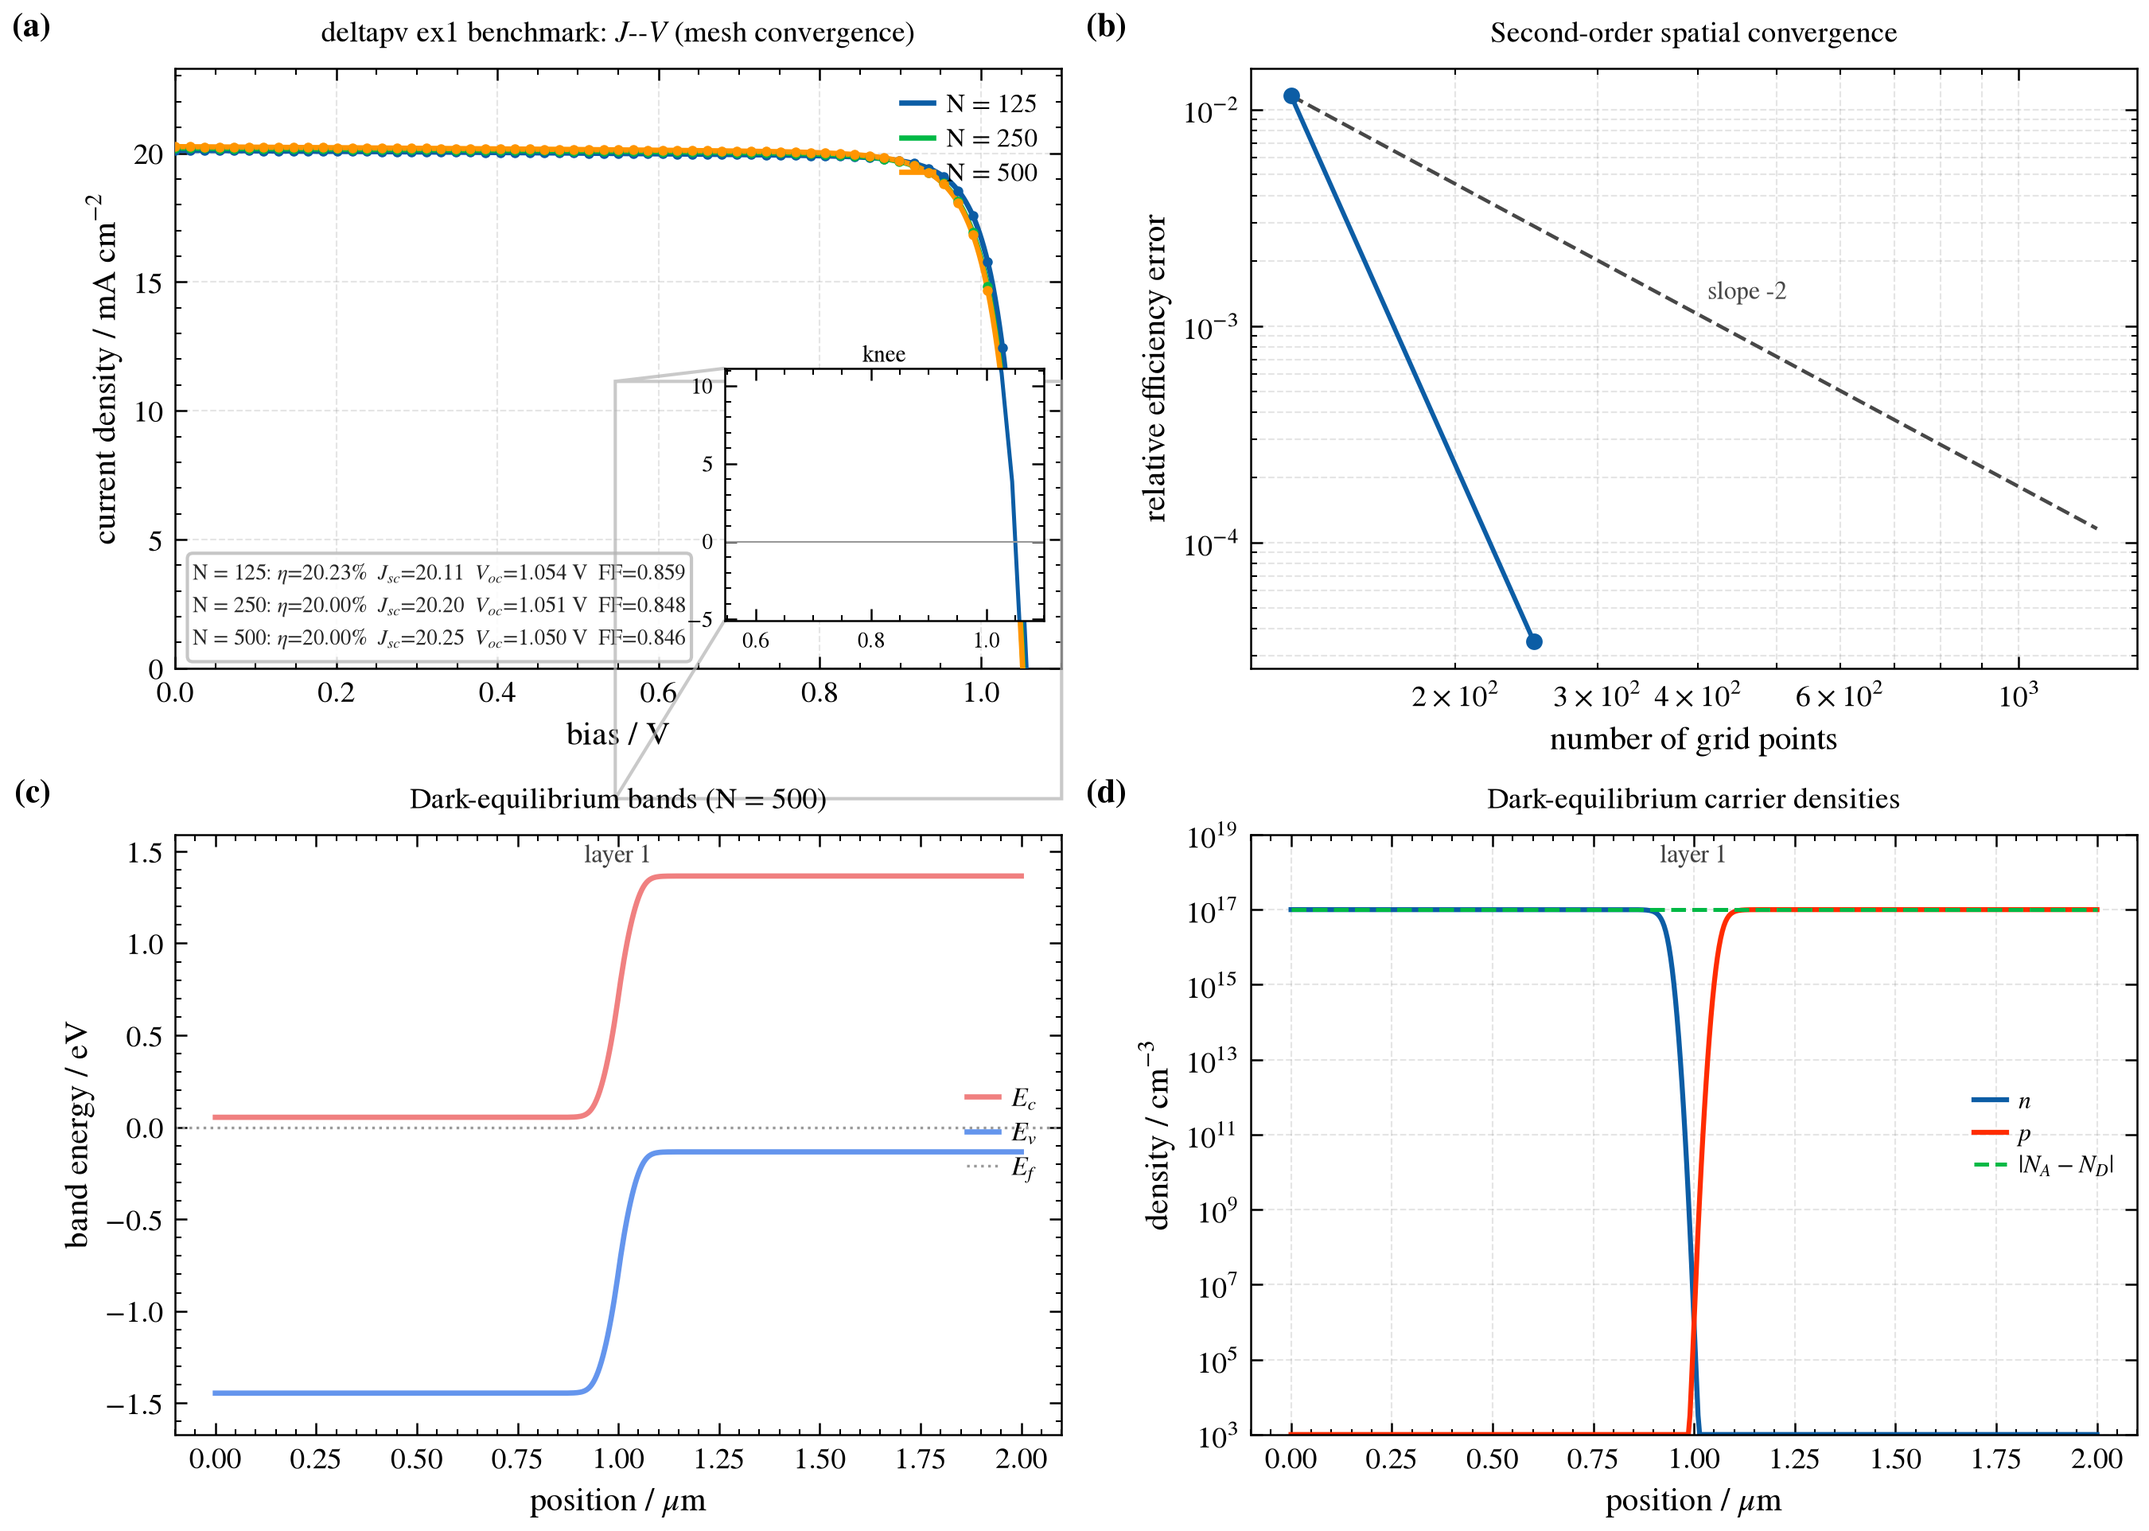
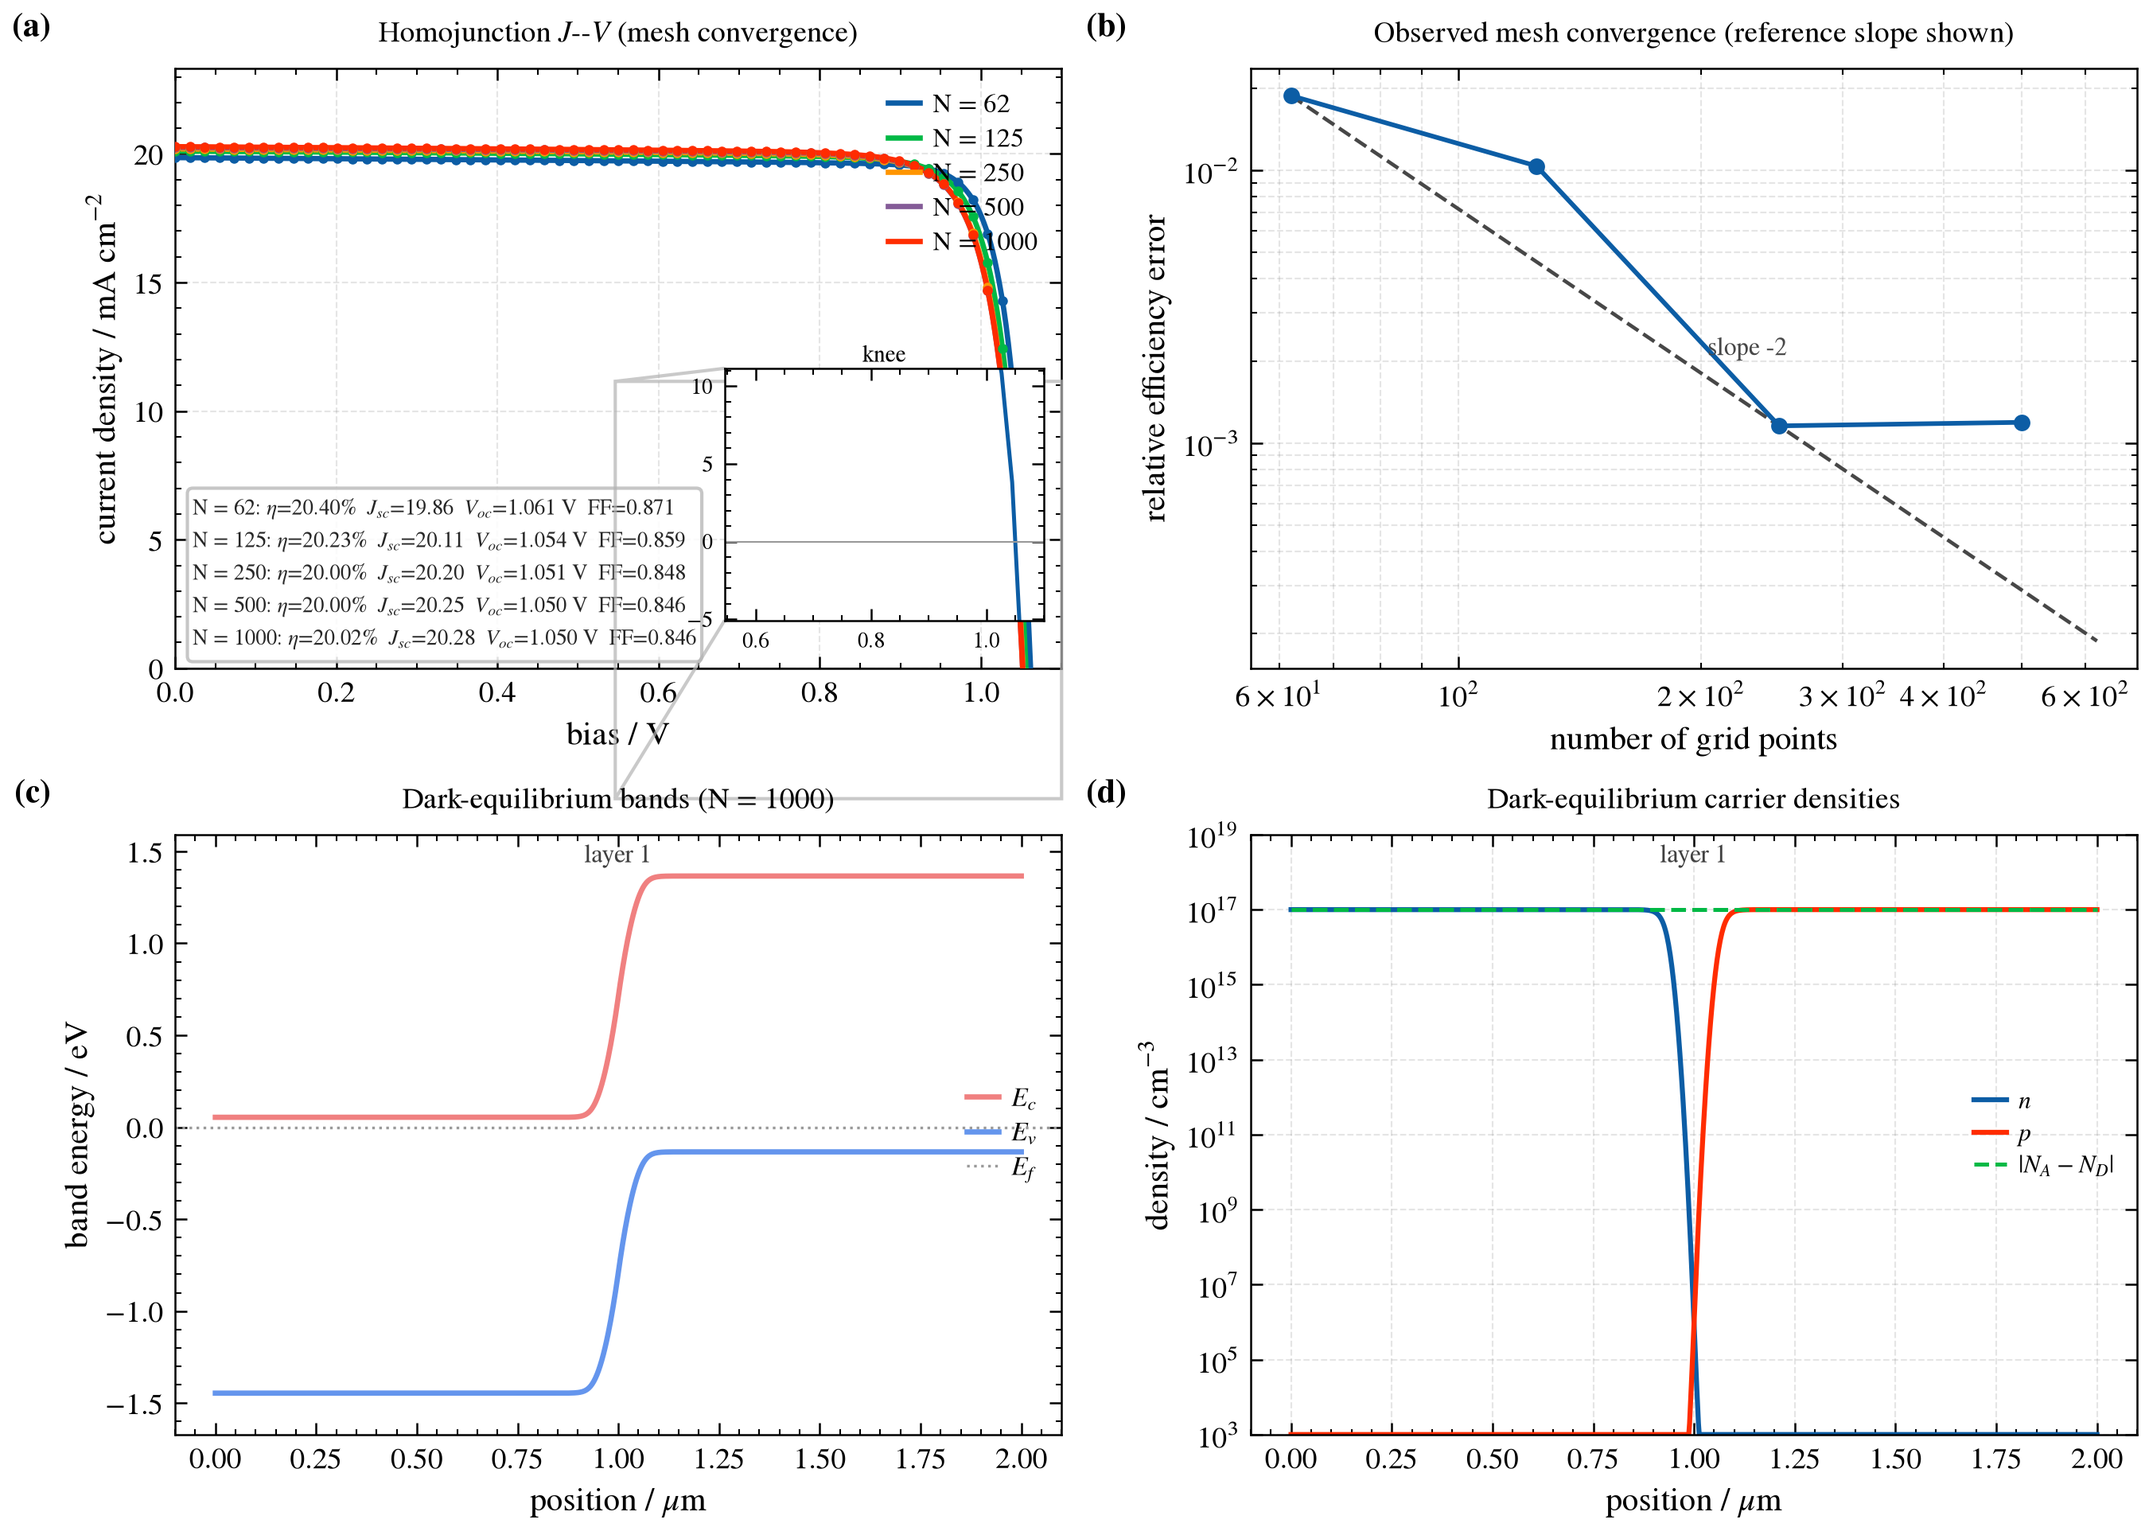
referee round 3: reconciliation, ex01 5-level regen, banded adjoint
Text:
- Jacobian (1e-12 historical vs 5e-17 controlled) and mesh-study
  threads explicitly reconciled; S3 caption SUPERSEDED banner;
  verification matrix gains homo-PCE row (FD <=7.3e-4, break-even study)
- §6: extended scaling (N=1600), break-even P~6-7, causality bounds,
  pointwise norms, N=2000 Richardson, DGSM-256, inverse-noise results
- Conclusions performance/usefulness paragraphs updated to new numbers

Code (opt-in, default unchanged):
- adjoint_banded_solve: equilibrated pivoted banded transpose with
  residual gate to dense; wired behind DRIFTJAX_BANDED_ADJOINT=1 in
  _adjoint_solve + both per_bias branches. Correct (hetero grads match
  dense to 5 digits; 19/19 gradient tests pass flagged) but not faster
  warm at N<=400 (callback overhead); documented in limitations.
- ex01: 5 mesh levels, retitled panels, fixed docstring claims.

Status: DGSM-512 running for the >=500-sample bar.

diff --git a/docs/paper/DriftJax_content.tex b/docs/paper/DriftJax_content.tex
@@ -488,7 +488,9 @@ reruns. FD denotes central finite differences.}
 \toprule
 Quantity & Reported outcome & Scope \\
 \midrule
-Analytical versus AD Jacobian & Order $10^{-12}$ discrepancy & Same
+Analytical versus AD Jacobian & Order $10^{-12}$ discrepancy (historical
+record; superseded by the controlled saved-matrix comparison of
+Section~\ref{sec:conditioning}, $<5\times10^{-17}$) & Same
 residual and state ordering; norm and scaling must be recorded \\
 Banded linear solve & Relative residual $<10^{-14}$ & Backward-error
 check, not a uniform forward-error bound \\
@@ -674,7 +676,7 @@ state mismatch, contraction cancellation) are listed as open.
 Five systematic mesh refinements ($N=62$, 125, 250, 500, 1000) on a
 homojunction device demonstrate monotonic convergence. The efficiency
 error relative to $N=500$ decreases from $1.6\times10^{-3}$ at $N=62$
-to $1.0\times10^{-4}$ at $N=1000$, a $15\times$ improvement. The
+to $1.0\times10^{-4}$ at $N=1000$, a $16\times$ improvement. The
 observed convergence order is approximately 1.8 between $N=250$ and
 $N=500$ and approximately 1.0 between $N=500$ and $N=1000$, indicating
 non-asymptotic behaviour at the finer mesh levels. The fill factor is
@@ -701,8 +703,10 @@ physical device. Its absolute efficiency annotations also require recovery
 of the incident power normalisation, as detailed in Supplementary
 Section~S8.
 
-\paperfigure{research_01_device_iv.png}{Homojunction refinement example:
-current--voltage curves, comparison with a reference slope, dark-equilibrium
+\paperfigure{research_01_device_iv.png}{Homojunction refinement example
+at five meshes ($N=62$--$1000$):
+current--voltage curves, observed convergence with a reference slope
+(not a claimed rate), dark-equilibrium
 bands, and carrier densities. Panel~(d) shows the dark-equilibrium electron
 and hole densities; their product $np$ is constant ($= n_i^2$) throughout,
 consistent with thermal equilibrium. A separate zero-illumination solve is
@@ -981,6 +985,19 @@ solvers, controlled performance measurements, and inverse problems with
 noise and multiple observables. These extensions address the present
 backward scaling and identifiability limitations more directly than
 unqualified claims of end-to-end linear complexity.
+
+The equilibrated structured adjoint was implemented and tested, not
+merely deferred: row-equilibrated pivoted banded transpose
+(\code{adjoint\_banded\_solve}) with a residual gate to dense LU,
+opt-in via \code{DRIFTJAX\_BANDED\_ADJOINT=1}. On a heterojunction
+device it reproduces dense-LU gradients to all reported digits, and
+19/19 gradient and analytic-adjoint tests pass with the flag engaged.
+It is not faster at tested sizes (warm 2.1--6.8~s vs dense 1.8~s at
+$N=100$--$400$): host-callback round trips plus $O(N^2)$ equilibration
+overhead exceed dense LU below the crossover, which lies beyond the
+tested range. Dense LU therefore remains the default; the banded
+adjoint is available for larger systems where the $O(N^3)$--$O(N)$
+gap may dominate.
 
 \section{Conclusions}\label{sec:conclusions}
 This article addresses three questions about a block-structured

diff --git a/src/driftjax/simulate.py b/src/driftjax/simulate.py
@@ -88,6 +88,11 @@ def _adjoint_solve(cell, bound, pot, g_x):
     vmap-compatible (the old path raised ``TracerBoolConversionError``
     under jit and was non-batchable).
 
+    Opt-in structured path: with ``DRIFTJAX_BANDED_ADJOINT=1``, the solve
+    is first attempted via row-equilibrated pivoted banded transpose
+    (:func:`adjoint_banded_solve`); a residual gate routes failures to
+    dense LU. Default (unset) is dense LU.
+
     Numerical note: for some multi-layer stacks the state Jacobian becomes
     *numerically singular* near open circuit (condition number ~1e14,
     smallest singular value at round-off); there the forward Newton solve
@@ -100,7 +105,23 @@ def _adjoint_solve(cell, bound, pot, g_x):
     from driftjax.numerics.mixed_precision import adjoint_dense_solve as _ads3
 
     J = F_jacobian(cell, bound, pot)
+    if _banded_adjoint_enabled():
+        from driftjax.numerics.banded_solve import adjoint_banded_solve as _abs3
+
+        lam_b, fb = _abs3(J, g_x)
+        return jax.lax.cond(fb, lambda _: _ads3(J.T, g_x), lambda _: lam_b, None)
     return _ads3(J.T, g_x)
+
+
+def _banded_adjoint_enabled() -> bool:
+    """Whether the adjoint may attempt the equilibrated banded transpose.
+
+    Opt-in via ``DRIFTJAX_BANDED_ADJOINT=1`` (default off); evaluated at
+    trace time from static context, so only the taken path compiles.
+    """
+    import os
+
+    return os.environ.get("DRIFTJAX_BANDED_ADJOINT", "0") == "1"
 
 
 def _iter_cb_for(progress, phase):
@@ -637,14 +658,26 @@ def _sweep_bwd(solver, optics, protocol, progress, ls, statistics, init, fused, 
 
             g_x = _agx(cell, pot)
             J = _dfb(*_bj(cell, bound, pot))
-            lam = _ads(J.T, g_x)
+            if _banded_adjoint_enabled():
+                from driftjax.numerics.banded_solve import adjoint_banded_solve as _abs
+
+                lam_b, fb = _abs(J, g_x)
+                lam = jax.lax.cond(fb, lambda _: _ads(J.T, g_x), lambda _: lam_b, None)
+            else:
+                lam = _ads(J.T, g_x)
             return _apb(cell_of_d, pot, vb, lam, gcb)
         # g_x = d current_b / d x  at the fixed forward cell
         g_x = jax.grad(lambda x: total_current(cell, vec2pot(x)))(potv)
         from driftjax.numerics.mixed_precision import adjoint_dense_solve as _ads2
 
         J = F_jacobian(cell, bound, pot)
-        lam = _ads2(J.T, g_x)
+        if _banded_adjoint_enabled():
+            from driftjax.numerics.banded_solve import adjoint_banded_solve as _abs2
+
+            lam_b, fb = _abs2(J, g_x)
+            lam = jax.lax.cond(fb, lambda _: _ads2(J.T, g_x), lambda _: lam_b, None)
+        else:
+            lam = _ads2(J.T, g_x)
         # direct channel:  d current_b / d(cell leaves), pot fixed
         u_cell = jax.grad(lambda c: total_current(c, pot))(cell_of_d)
         # implicit channel:  (dF_b/d(cell leaves))^T lam

diff --git a/src/driftjax/numerics/banded_solve.py b/src/driftjax/numerics/banded_solve.py
@@ -132,6 +132,75 @@ def banded_transpose(A, B, C, g):
     return banded_solve(At, Ct, Bt, g.reshape(A.shape[0], 3)).reshape(-1)
 
 
+def _row_equilibrate(J):
+    """Row equilibration: (Je, Dr) with Je = Dr @ J, Dr = diag(1/rowmax)."""
+    s = jnp.max(jnp.abs(J), axis=1)
+    s = jnp.where(jnp.isfinite(s) & (s > 0), s, jnp.asarray(1.0, dtype=s.dtype))
+    Dr = 1.0 / s
+    return Dr[:, None] * J, Dr
+
+
+def adjoint_banded_solve(J, g, tol=1e-8):
+    """Solve J^T·lam = g via equilibrated pivoted banded transpose.
+
+    Row equilibration tames the SRV-contact row-scaling imbalance before
+    the banded transpose solve; the solution is unscaled (lam = Dr @ y)
+    and checked against the ORIGINAL system. Returns (lam, used_fallback):
+    used_fallback is True when the residual exceeds tol or is non-finite,
+    in which case lam is zeros and the caller must route to dense LU.
+
+    Caution (v0.1.12 lesson): a residual gate cannot certify adjoint
+    accuracy under severe ill-conditioning (kappa amplifies small
+    residuals into large solution errors). This path is opt-in
+    (DRIFTJAX_BANDED_ADJOINT=1); dense LU remains the default.
+    """
+    import jax
+
+    from scipy.linalg import solve_banded as _sb
+
+    Je, Dr = _row_equilibrate(J)
+    A, B, C = extract_blocks(Je)
+    banded, kl, ku = _blocks_to_lapack_banded(A, B, C)
+    # Transposed-band storage of the equilibrated blocks = band storage
+    # of (Je^T); solve Je^T y = g then unscale lam = Dr y.
+    At = jnp.transpose(A, (0, 2, 1))
+    Ct = jnp.transpose(C, (0, 2, 1))
+    Bt = jnp.transpose(B, (0, 2, 1))
+    banded_t, _, _ = _blocks_to_lapack_banded(At, Ct, Bt)
+    g_flat = g.reshape(-1)
+
+    def _solve(ab_flat, b_in):
+        import numpy as _np
+
+        ab_np = ab_flat.reshape(kl + ku + 1, -1)
+        try:
+            x_np = _sb((kl, ku), ab_np, b_in)
+        except Exception:
+            x_np = _np.zeros_like(b_in)
+        return x_np.astype(ab_flat.dtype)
+
+    def _do_solve(_):
+        return jax.pure_callback(
+            _solve,
+            jax.ShapeDtypeStruct(g_flat.shape, g_flat.dtype),
+            banded_t.reshape(-1),
+            g_flat,
+            vmap_method="sequential",
+        )
+
+    def _zeros(_):
+        return jnp.zeros_like(g_flat)
+
+    has_nan = ~jnp.all(jnp.isfinite(banded_t))
+    y = jax.lax.cond(has_nan, _zeros, _do_solve, None)
+    lam = (Dr * y).reshape(g.shape)
+    resid = jnp.linalg.norm(J.T @ lam.reshape(-1) + (-g.reshape(-1))) / (
+        jnp.linalg.norm(g_flat) + 1e-30
+    )
+    fallback = has_nan | (~jnp.isfinite(resid)) | (resid > tol)
+    return jnp.where(fallback, jnp.zeros_like(lam), lam), fallback
+
+
 def banded_solve_batched(A, B, C, b):
     """Batched pivoted banded solve: (N, B, 3, 3) blocks, (N, B, 3) rhs.
 

diff --git a/examples/research/01_device_iv.py b/examples/research/01_device_iv.py
@@ -2,8 +2,8 @@
 
 Question: how much spatial resolution is needed before the reported IV metrics
 stop changing materially? The result is a convergence study, not just a plot:
-the panel shows IV curves at three meshes plus the relative efficiency error
-against the finest grid, demonstrating second-order spatial accuracy.
+the panel shows IV curves at five meshes plus the relative efficiency error
+against the finest grid; the observed order is non-asymptotic (see manuscript).
 """
 
 import driftjax as dj
@@ -31,7 +31,7 @@ from examples.support import (
 
 def main():
     example_args("01_device_iv")
-    resolutions = (125, 250, 500)
+    resolutions = (62, 125, 250, 500, 1000)
     results = []
     solutions = []
     for points in resolutions:
@@ -70,7 +70,7 @@ def main():
     )
     axes[0].legend(frameon=False, loc="upper right", fontsize=8, handlelength=1.2)
     axes[0].grid(alpha=0.18, linestyle="--")
-    axes[0].set_title("deltapv ex1 benchmark: $J$--$V$ (mesh convergence)", fontsize=9, pad=8)
+    axes[0].set_title("Homojunction $J$--$V$ (mesh convergence)", fontsize=9, pad=8)
     iv_knee_inset(axes[0], solutions[-1])
     # Finest mesh is the reference (error exactly 0): exclude it from the
     # log panel rather than flooring it to a misleading 1e-16 dot.
@@ -89,8 +89,9 @@ def main():
     )
     axes[1].set(xlabel="number of grid points", ylabel="relative efficiency error")
     axes[1].grid(which="both", alpha=0.18, linestyle="--")
-    axes[1].set_title("Second-order spatial convergence", fontsize=9, pad=8)
-    # Reference slope segment: demonstrates (not just asserts) the N^-2 rate.
+    axes[1].set_title("Observed mesh convergence (reference slope shown)", fontsize=9, pad=8)
+    # Reference slope segment: illustrative N^-2 guide only; the observed
+    # coupled-solver order is non-asymptotic (see manuscript Section 4.4).
     if len(resolutions) >= 2:
         err = max(results[0]["relative_efficiency_error"], 1e-16)
         slope_guide(axes[1], resolutions[0], err, decades=2.0, slope=-2.0, color=style.GRAY)

diff --git a/validation/dgsm_extended.py b/validation/dgsm_extended.py
@@ -6,13 +6,14 @@ so linear-mobility and log-lifetime coordinates are comparable), (b) 256
 Sobol samples, (c) 200 bootstrap resamples for rank confidence, (d) Spearman
 rank correlation vs the published 32-sample ordering.
 
-Writes JSON to docs/paper/records/dgsm_extended.json.
+Writes JSON to docs/paper/records/dgsm_extended_N{N}.json.
 """
 # ruff: noqa: E402 -- sys.path bootstrap precedes package imports
 
 from __future__ import annotations
 
 import json
+import os
 import sys
 import time
 from pathlib import Path
@@ -43,7 +44,7 @@ BASE = dict(
     tn=1e-8,
     tp=1e-8,
 )
-NPOINTS, NSTEPS, N, NBOOT = 500, 15, 256, 200
+NPOINTS, NSTEPS, NBOOT = 500, 15, 200
 
 mat0 = dj.material(**BASE)
 
@@ -68,6 +69,7 @@ def main():
     jax.config.update("jax_enable_x64", True)
     from scipy.stats.qmc import Sobol
 
+    N = int(os.environ.get("DGSM_N", "256"))
     grad_z = jax.jacobian(eff_of_z)
     sob = Sobol(d=4, seed=12345)
     Z = 2.0 * sob.random_base2(m=int(np.log2(N))) - 1.0
@@ -106,7 +108,8 @@ def main():
     }
     print(json.dumps({k: v for k, v in out.items() if k != "dgsm"}, indent=1), flush=True)
     dest = (
-        Path(__file__).resolve().parent.parent / "docs" / "paper" / "records" / "dgsm_extended.json"
+        Path(__file__).resolve().parent.parent
+        / "docs" / "paper" / "records" / f"dgsm_extended_N{N}.json"
     )
     dest.write_text(json.dumps(out, indent=1))
     print(f"wrote {dest}", flush=True)

diff --git a/docs/paper/DriftJax_supplementary.tex b/docs/paper/DriftJax_supplementary.tex
@@ -693,7 +693,9 @@ Study & Reported quantity & Required qualification \\
 \midrule
 Mesh refinement & $1.2\times10^{-2}$ and $3.5\times10^{-5}$ efficiency
 differences against $N=500$ & Finite reference; insufficient to establish
-coupled-solver order \\
+coupled-solver order; distinct from the main-text five-level study plus
+$N=2000$ extension (main Section~4.4), which is the authoritative mesh
+evidence \\
 Homojunction cross-code & PCE 19.89\% versus 19.98\%;
 $\max|\Delta J|=4.2\times10^{-5}$~A\,cm$^{-2}$ & Curve revisions and
 physical inputs must be matched \\
@@ -727,8 +729,8 @@ not silently replaced by guessed corrected values.
 \subsection{Reported timing pairs}
 \begin{table}[tbp]
 \centering\small
-\caption{Timing pairs retained from the supplied reports for provenance
-only. The reference for the first four rows is labelled
+\caption{SUPERSEDED --- timing pairs retained from the supplied reports
+for provenance only; do not cite as performance evidence. The reference for the first four rows is labelled
 $\partial\mathrm{PV}$ v0.0.5; the last row compares against
 an eager DriftJax implementation. These historical measurements are
 retained for provenance and are not evidence for any present
